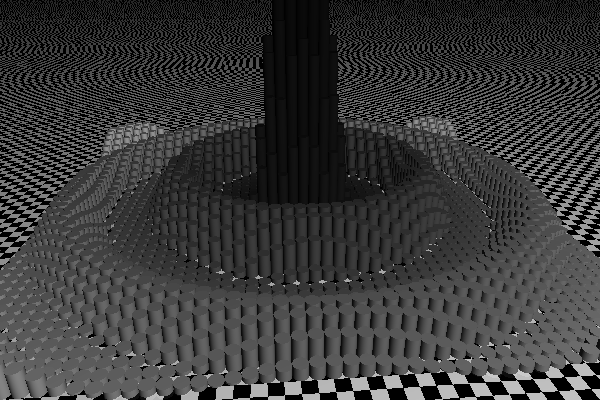
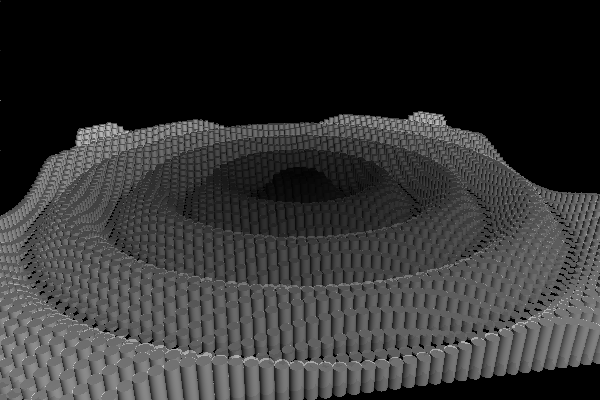
Chapter 13: cylinders

diff --git a/ray-tracer/Program.cs b/ray-tracer/Program.cs
@@ -301,18 +301,19 @@ namespace ray_tracer
                 Material = new Material(new CheckerPattern(Color.Black, Color.White).Scale(1), reflective: 0.3, transparency: 0.9),
                 Transform = Helper.Translation(0, -0.5, 0)
             };
-            world.Add(floor);
+            //world.Add(floor);
 
-            const int N = 50;
+            const int N = 70;
             for (int i = 0; i < N; i++)
             for (int j = 0; j < N; j++)
             {
                 double x = (double)i/N - 0.5;
                 double z =  (double)j / N - 0.5;
                 double r = Math.Sqrt(x * x + z * z);
-                double y = 1+Math.Sin(Math.PI * 2 * r*5)*1/r;
+                double y = (1+Math.Sin(Math.PI * 2 * r*8))*2;
                 var cyl = new Cylinder(minimum:0, maximum:1, closed: true).Scale(sx: 0.5, sy: y, sz: 0.5).Translate(tx: i, tz: j);
                 cyl.Material.Pattern = new SolidPattern(Color.White*r);
+                cyl.Material.Transparency = 0.9;
                 world.Add(cyl);
             }
             
@@ -320,7 +321,7 @@ namespace ray_tracer
             var point = Helper.CreatePoint(d,  d, -d);
             world.Lights.Add(new PointLight(2*point, Color.White));
             var camera = new Camera(600, 400, Math.PI / 3, Helper.ViewTransform(point, Helper.CreatePoint(N / 2, 0*N / 2, N / 2), Helper.CreateVector(0, 1, 0)));
-            var canvas = camera.Render(world);
+            var canvas = camera.Render(world, 2);
             string file = Path.Combine(Path.GetTempPath(), "cylinders_altitude.ppm");
             Helper.SavePPM(canvas, file);
             return file;
